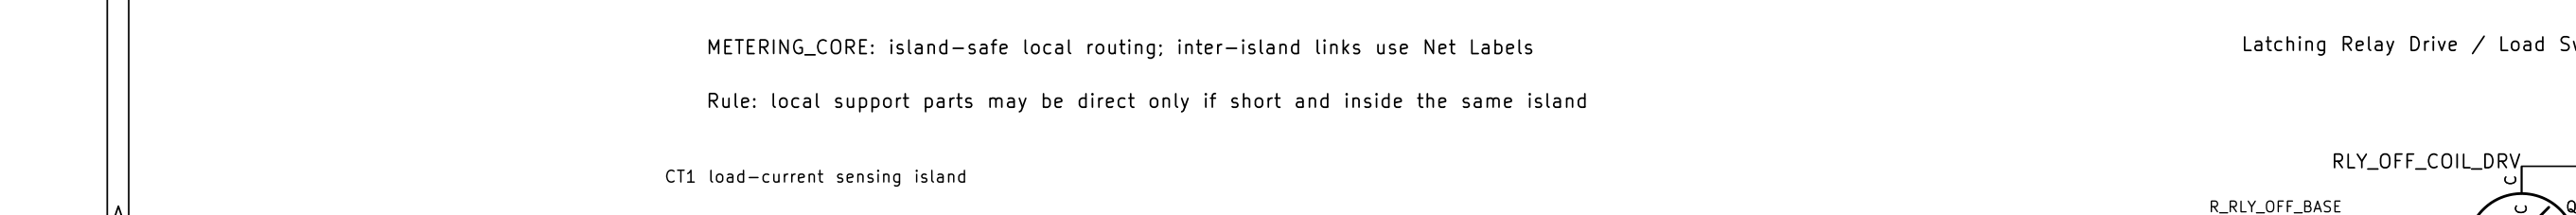
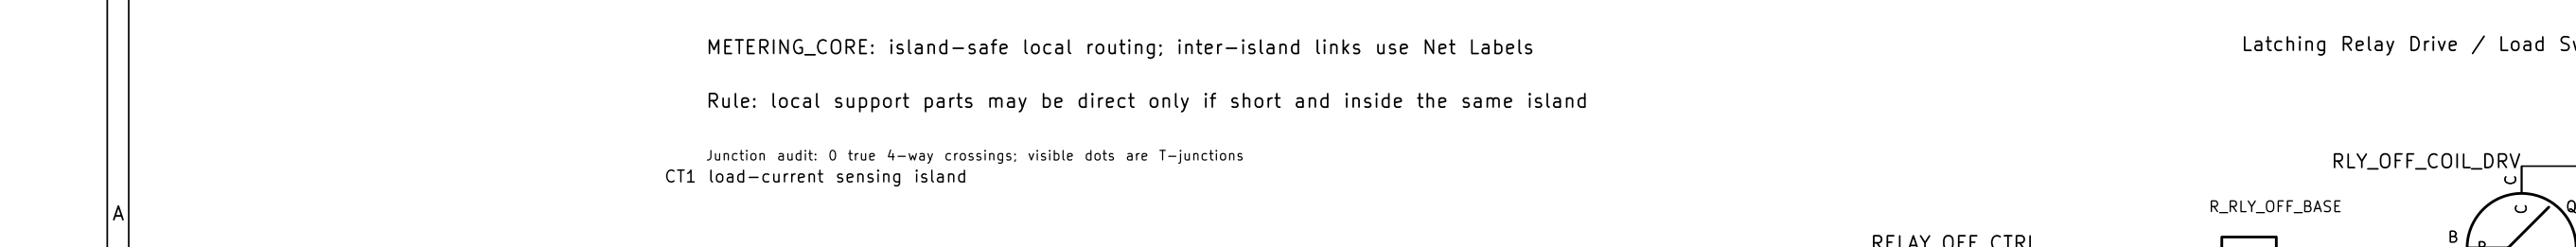
Address Gemini schematic junction feedback

diff --git a/docs/schematic-review/metering_core/junction_audit.md b/docs/schematic-review/metering_core/junction_audit.md
@@ -1,0 +1,26 @@
+# Junction Audit
+
+Automated check of `METERING_CORE.kicad_sch` junction objects.
+
+- Junction objects checked: 40
+- True 4-way junctions found: 0
+- T-junctions found: 9
+
+## T-junction coordinates
+
+| X (mm) | Y (mm) | Directions |
+| ---: | ---: | :--- |
+| 44.93 | 56.91 | LRU |
+| 41.12 | 170.18 | DLR |
+| 41.12 | 185.18 | LRU |
+| 245.00 | 260.00 | LRU |
+| 44.93 | 41.91 | DLR |
+| 57.15 | 267.97 | LRU |
+| 327.46 | 96.66 | DLR |
+| 330.00 | 96.66 | DLR |
+| 332.54 | 96.66 | DLR |
+
+## Result
+
+No true 4-way junction was detected by coordinate analysis. The visible junction dots are T-junctions.
+If a reviewer still finds a visually ambiguous location in the PDF, that exact coordinate should be staggered in the next schematic pass.

diff --git a/docs/schematic-review/metering_core/README.md b/docs/schematic-review/metering_core/README.md
@@ -13,6 +13,9 @@ preview artifacts from a GitHub PR.
   - KiCad PDF export for human visual inspection.
 - `METERING_CORE_island_safe_direct_routing_top_notes.png`
   - Rendered crop showing the updated island-safe direct routing rule notes.
+- `junction_audit.md`
+  - Coordinate-based audit of schematic junction objects.
+  - Records whether any true 4-way junctions exist in the schematic source.
 
 ## Review Focus
 
@@ -35,3 +38,14 @@ The main rule change being reviewed is:
 This snapshot does not claim the schematic is final for PCB release. It is a
 reviewable checkpoint so Gemini can flag style, connectivity, and documentation
 issues before the next Codex implementation pass.
+
+## Generated Outputs
+
+This review snapshot intentionally includes generated schematic preview
+artifacts:
+
+- PDF export: `METERING_CORE_island_safe_direct_routing.pdf`
+- PNG crop: `METERING_CORE_island_safe_direct_routing_top_notes.png`
+
+These files are included so reviewers can compare the KiCad source with a human
+readable preview.